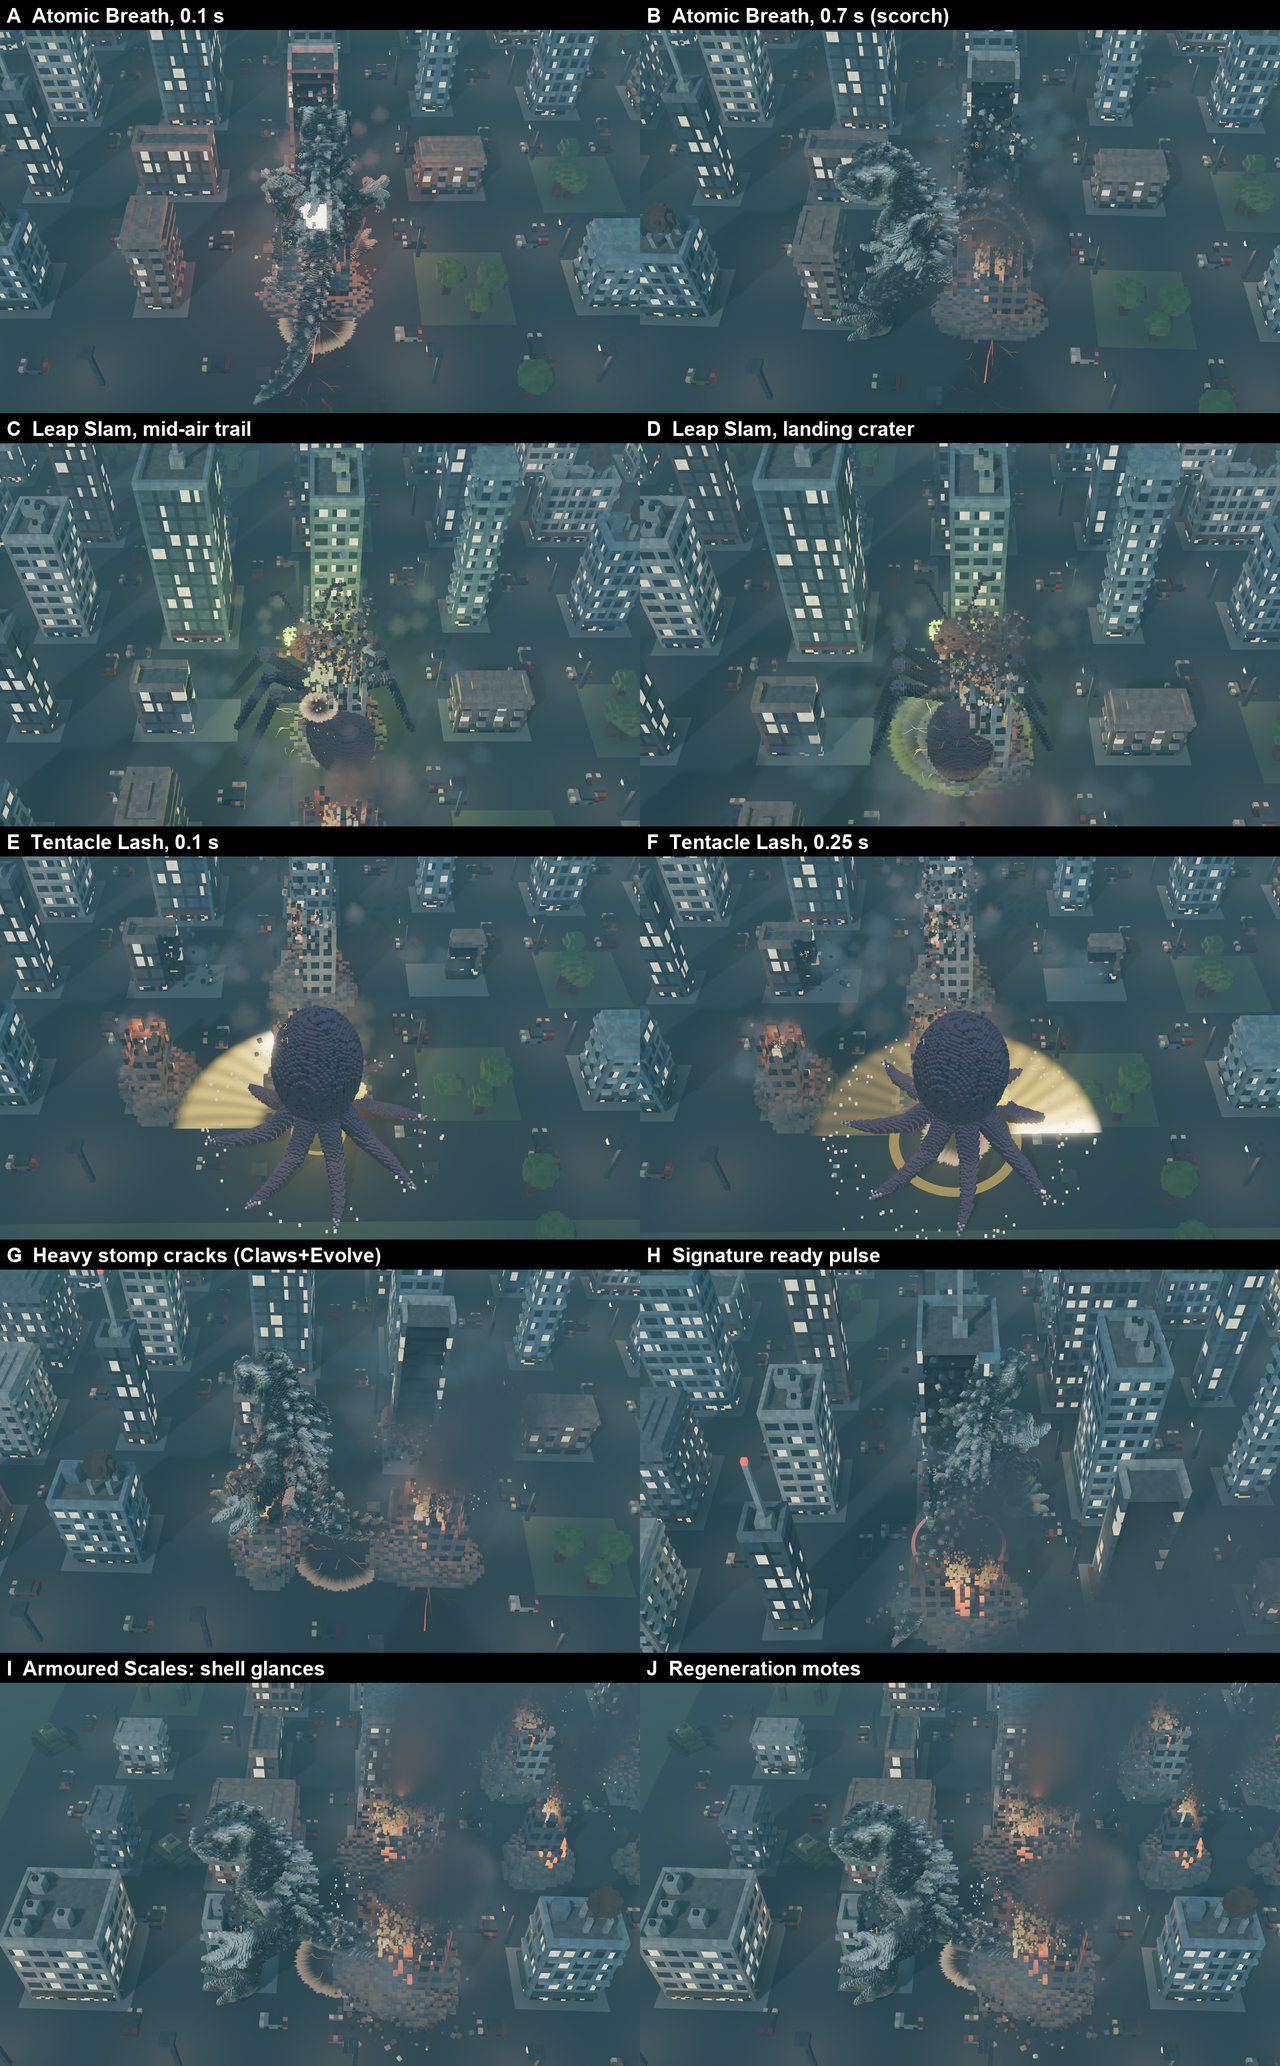
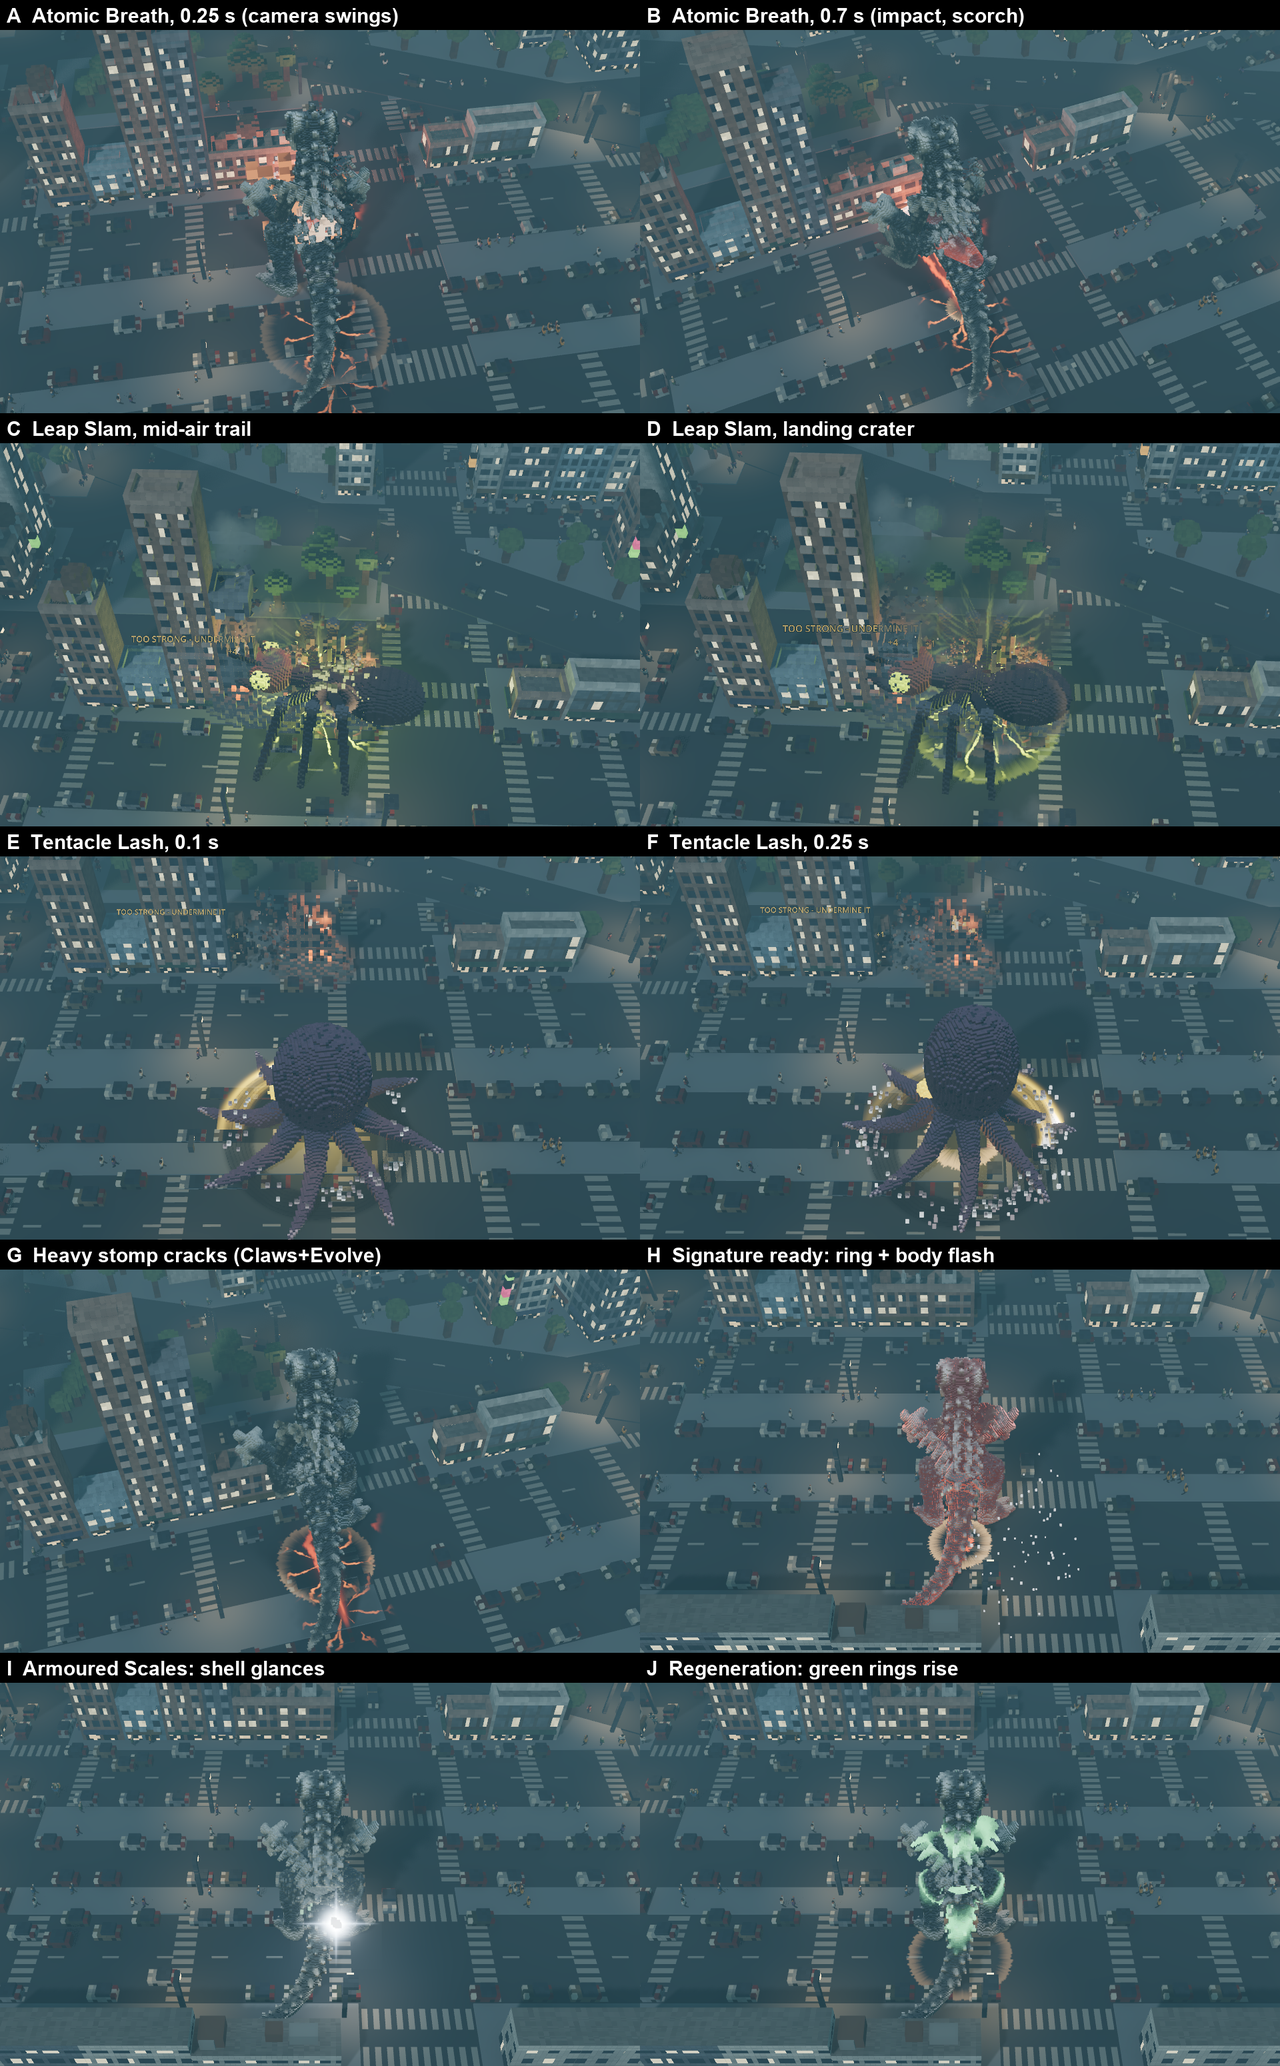
Ability VFX: new board at the gameplay camera, cue capture tool; handoff

diff --git a/agent-handoffs/ability-vfx.md b/agent-handoffs/ability-vfx.md
@@ -1,5 +1,5 @@
 # Ability VFX handoff, 2026-10-16 21:00 (rev 21:05)
-## State: working (waiting for the GPU to recapture; lead review FIX items implemented)
+## State: awaiting lead (FIX list done; new board + clip sent)
 
 ## Task
 D-026: a distinct VFX for every unlockable power, plus the SFX sourcing proposal. The lead is
@@ -29,26 +29,20 @@ green). The board has NOT passed my QA yet; the PR stays on HOLD with the lead.
 - flow 22, smoke 11, sim 39 green locally.
 
 ## Next
-Merged look-options (8cf4a16: no project-wide fullscreen; D-030 SFX decided). Recapture
-powers4 (scratchpad) passed for leap and breath impact, but showed: body overlay far too strong
-(kaiju turned solid pink/mint), lash streaks too faint, and the breath voxels washed out to peach.
-powers6/7 (new city): breath beam + scorch, cracks, lash, leap pass. Fixed since: regen rings use
-per-fragment world y (multimesh), additive shaders fog_disabled (fog drew pale quads round flares
-and the beam impact), bigger deflect flash (29cc36c). I/J in gameplay shots sit in fire smoke, so
-H/I/J on the board come from scratchpad dbg_cues.gd (clear street, same camera).
-Capture powers8 + cue shots running (buaor8773); then board.py -> QA -> docs/captures -> push.
-Findings for the lead's learnings (not mine to record): Godot additive unshaded quads need
-fog_disabled; MODEL_MATRIX in a MultiMesh shader excludes the instance transform.
-1. Wedge orientation verified (dbg_breath.gd). Review the powers8 board with 2x crops.
-2. Copy the board into docs/captures/2026-10-16-powers/, convert the clip to mp4, push, and
-   message the lead.
-3. Then the SFX follow-up PR per D-030 (Sonniss/Kenney/Freesound CC0; synthesize hums, beams,
-   pings, sizzles, regen in-house; register + provenance before assets/).
+- FIX list done and pushed. Board (A-J, gameplay camera): docs/captures/2026-10-16-powers/
+  powers_board.png; H/I/J from tools/capture/capture_cues.gd (clear street). Clip (powers8):
+  scratchpad .../powers8/powers.mp4.
+- Known: the breath at 0.25 s is still mostly behind the body when the kaiju faces away (the
+  orbit is 25 deg as approved); the ready flash tints the body red for about 0.5 s.
+- Findings for the lead's learnings (not mine to record): additive unshaded quads need
+  fog_disabled; MODEL_MATRIX in a MultiMesh shader excludes the instance transform.
+- After the lead passes this: the SFX follow-up PR per D-030 (Sonniss/Kenney/Freesound CC0;
+  synthesize hums, beams, pings, sizzles, regen in-house; register + provenance first).
 
 ## Attempts (beam visibility)
 Edge glow (failed), x-ray through walls (covered the kaiju, reverted), flat glow floor plus a
 white-hot jet ramp; now the camera orbit (lead-approved) plus a beam that ends on its target.
 
 ## Running jobs
-GPU-wait watcher biuo13l46; a wakeup at 21:14 as a fallback. No Godot of mine running.
+None. No Godot of mine running.
 No override.cfg left.
